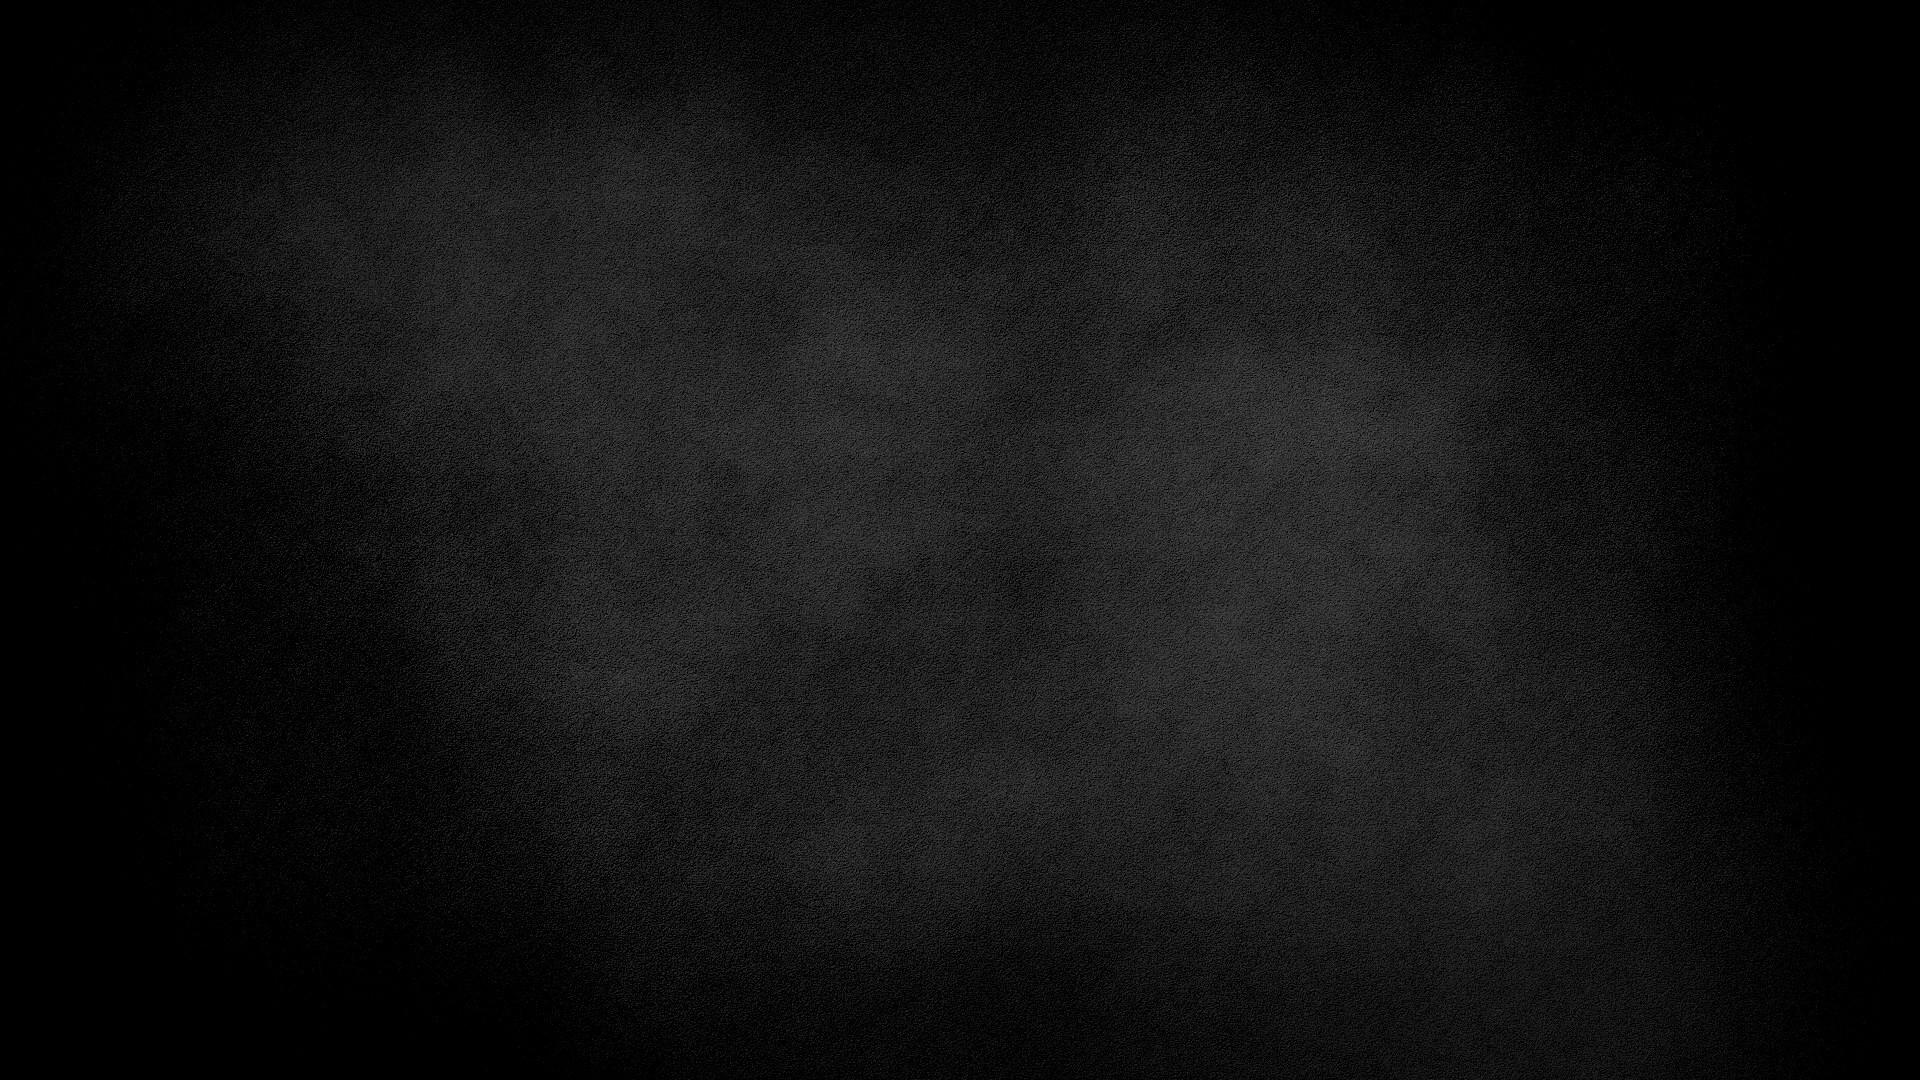
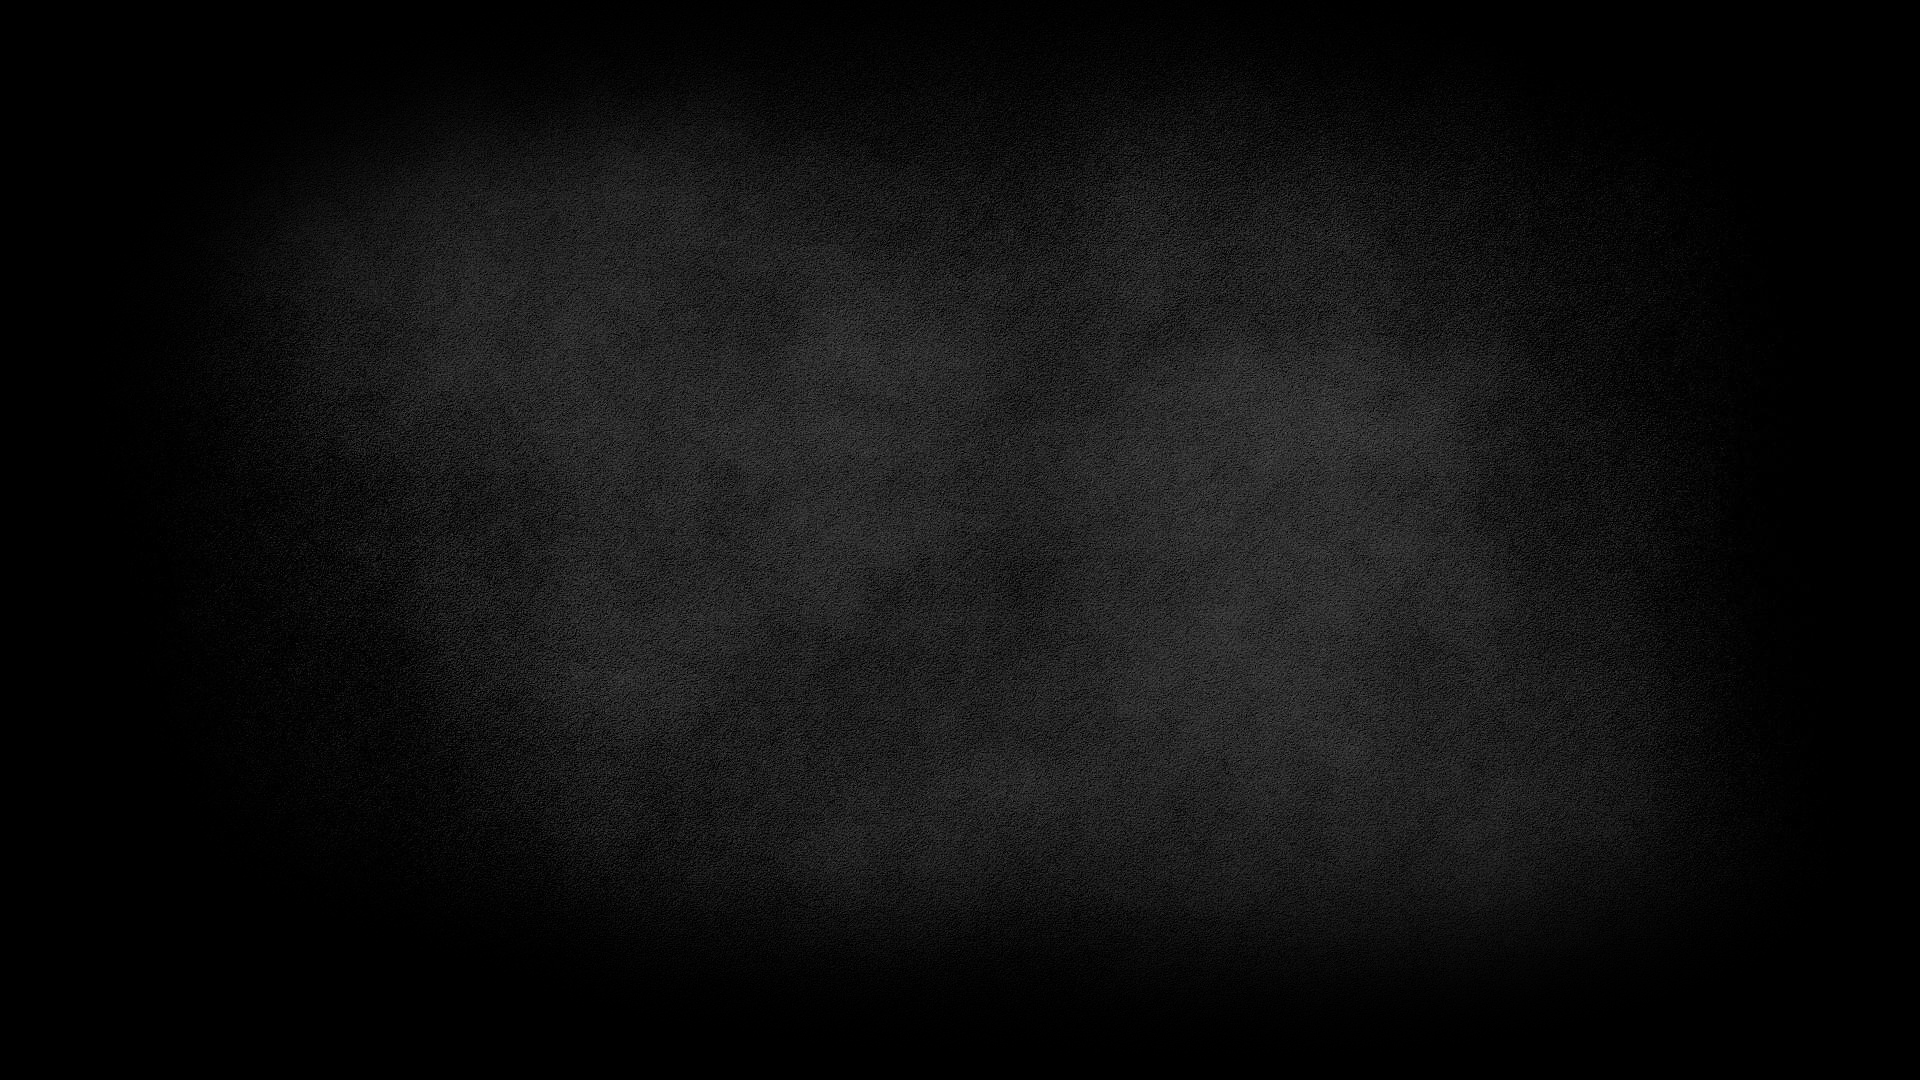
Bar search logic & Init db data & facebook token fix

Changed region(s): [[0.6875, 0.8861, 0.875, 1.0], [0.6562, 0.9167, 0.6875, 0.9472]]

diff --git a/BALIBAR/wwwroot/css/bars.css b/BALIBAR/wwwroot/css/bars.css
@@ -21,7 +21,6 @@
     align-items: center;
     justify-content: center;
     cursor: pointer;
-    font-family: 'Microsoft JhengHei UI light';
 }
 
 .room-card {
@@ -37,21 +36,32 @@
     justify-content: center;
     box-shadow: 0 5px 10px rgba(0,0,0,0.16), 0 5px 10px rgba(0,0,0,0.23);
     cursor: pointer;
-    font-family: 'Microsoft JhengHei UI light';
+}
+
+.search-card {
+    margin-left: 15px;
+    margin-bottom: 1rem;
+    margin-top: 1rem;
+    background: black;
+    display: flex;
+    width: 100%;
+    text-align: center;
+    align-items: center;
+    justify-content: center;
+    box-shadow: 0 5px 10px rgba(0,0,0,0.16), 0 5px 10px rgba(0,0,0,0.23);
+    background: rgba(0, 0, 0, 0.6);
 }
 
 .weather-card {
     text-align: center;
     align-items: center;
     justify-content: center;
-    font-family: 'Microsoft JhengHei UI light';
 }
     .room-card.new {
         background: #1EDC3F;
         display: flex;
         align-items: center;
         justify-content: center;
-        color: black;
         width: 100%;
         height: 100px;
         color: white;

diff --git a/BALIBAR/wwwroot/js/barList.js b/BALIBAR/wwwroot/js/barList.js
@@ -1,0 +1,43 @@
+$(function () {
+
+    // Init bar list
+    $(document).ready(function () {
+        $.ajax({
+            type: 'GET',
+            url: "/Bars/Search",
+            success: function (data) {
+                $("#barList").html(data);
+            }
+        })
+    });
+
+    // Bar list
+    $("#searchButton").click(function () {
+        $.ajax({
+            type: 'GET',
+            url: "/Bars/Search",
+            data: $("#searchForm").serialize(),
+            success: function (data) {
+                $("#barList").html(data);
+            }
+        })
+    })
+
+    // Bar types
+    var select = document.getElementById("Type_Name")
+    var url = "/Bars/GetTypesList"
+    $.ajax({
+        type: 'GET',
+        url: url,
+        contentType: 'json',
+        success: function (genres) {
+
+            for (var i = 0; i < genres.length; i++) {
+                var option = document.createElement("option");
+                option.text = genres[i];
+                select.add(option);
+            }
+        }
+    })
+
+});

diff --git a/BALIBAR/wwwroot/css/main.css b/BALIBAR/wwwroot/css/main.css
@@ -1,9 +1,9 @@
 body {
     background-color: #f1f4f7;
     background-image: url("/content/wallpaper.jpg");
-    background-repeat: no-repeat;
-    background-size: cover;
-    font-family: "Roboto";
+    /*    background-repeat: no-repeat;*/
+    background-size: auto;
+    font-family: 'Microsoft JhengHei UI light';
     font-size: 16px;
 }
 

diff --git a/BALIBAR/Program.cs b/BALIBAR/Program.cs
@@ -10,6 +10,7 @@ using Microsoft.Extensions.Configuration;
 using Microsoft.Extensions.DependencyInjection;
 using Microsoft.Extensions.Hosting;
 using Microsoft.Extensions.Logging;
+using Type = BALIBAR.Models.Type;
 
 namespace BALIBAR
 {
@@ -45,6 +46,58 @@ namespace BALIBAR
 
         private static void AddData(BALIBARContext context)
         {
+            // If bar type list is empty
+            if (!context.Type.Any())
+            {
+                var Types = new List<Type>
+                {
+                    new Type
+                    {
+                        Name = "Irish pub",
+                        Description = "Pub with irish design",
+                        MusicType = "All kinds"
+                    },
+
+                    new Type
+                    {
+                        Name = "Pizza bar",
+                        Description = "Pizza and beer",
+                        MusicType = "Pop"
+                    },
+
+                    new Type
+                    {
+                        Name = "Beach bar",
+                        Description = "Bar on the beach with the sound of the waves",
+                        MusicType = "Chill"
+                    },
+
+                    new Type
+                    {
+                        Name = "Beer factory",
+                        Description = "The beer you get is made in our place",
+                        MusicType = "All kinds"
+                    },
+
+                    new Type
+                    {
+                        Name = "Dance bar",
+                        Description = "Come to dance with us",
+                        MusicType = "All"
+                    },
+
+                    new Type
+                    {
+                        Name = "Open stage bar",
+                        Description = "Get on the stage and perdorm or sit back and enjoy the show",
+                        MusicType = "Live music"
+                    }
+                };
+                context.AddRange(Types);
+                context.SaveChanges();
+            }
+
+            // If bar list is empty
             if (!context.Bar.Any())
             {
                 var Bars = new List<Bar> {
@@ -79,7 +132,7 @@ namespace BALIBAR
                     ClosingTime = DateTime.Today.Add(TimeSpan.Parse("01:00:00")),
                     MinAge = 16,
                     ImgUrl = "/content/Goons.jpg",
-                    Type = context.Type.FirstOrDefault(t => t.Name == "Irish pub")
+                    Type = context.Type.FirstOrDefault(t => t.Name == "Pizza bar")
                 },
 
                 new Bar
@@ -95,7 +148,7 @@ namespace BALIBAR
                     ClosingTime = DateTime.Today.Add(TimeSpan.Parse("01:00:00")),
                     MinAge = 18,
                     ImgUrl = "/content/Mikesplace.jpg",
-                    Type = context.Type.FirstOrDefault(t => t.Name == "Irish pub")
+                    Type = context.Type.FirstOrDefault(t => t.Name == "Open stage bar")
                 },
 
                 new Bar
@@ -111,7 +164,7 @@ namespace BALIBAR
                     ClosingTime = DateTime.Today.Add(TimeSpan.Parse("01:00:00")),
                     MinAge = 18,
                     ImgUrl = "/content/Jems.jpg",
-                    Type = context.Type.FirstOrDefault(t => t.Name == "Irish pub")
+                    Type = context.Type.FirstOrDefault(t => t.Name == "Beer factory")
                 },
 
                 new Bar
@@ -127,7 +180,7 @@ namespace BALIBAR
                     ClosingTime = DateTime.Today.Add(TimeSpan.Parse("03:00:00")),
                     MinAge = 18,
                     ImgUrl = "/content/LimaLima.jpg",
-                    Type = context.Type.FirstOrDefault(t => t.Name == "Irish pub")
+                    Type = context.Type.FirstOrDefault(t => t.Name == "Dance bar")
                 }
 
 

diff --git a/BALIBAR/Controllers/BarsController.cs b/BALIBAR/Controllers/BarsController.cs
@@ -31,21 +31,10 @@ namespace BALIBAR.Controllers
 
         // GET: Bars
         [Authorize]
-        public async Task<IActionResult> Index(string barName, string typeName, int minAge)
+        //public async Task<IActionResult> Index(string barName, string typeName, int minAge)
+        public async Task<IActionResult> Index()
         {
-            var bars = from bar in _context.Bar
-                        select bar;
-
-            if (!String.IsNullOrEmpty(barName))
-                bars = bars.Where(b => b.Name.Contains(barName));
-
-            if (minAge > 0)
-                bars = bars.Where(b => (b.MinAge >= minAge ));
-
-            if (!String.IsNullOrEmpty(typeName))
-                bars = bars.Where(b => b.Type.Name.Equals(typeName));
-
-            return View(await bars.Include(b => b.Type).ToListAsync());
+            return View();
         }
 
         // GET: Bars/Details/5
@@ -195,6 +184,25 @@ namespace BALIBAR.Controllers
                 return new UnableToDeleteViewResult("UnableToDeleteError", "Unable to delete specified room. There are reservations associated with that room!");
             }
             
+        }
+
+        [Authorize]
+        public IActionResult Search(string barName, string typeName, int minAge)
+        {
+            var bars = from bar in _context.Bar
+                       select bar;
+            bars = bars.OrderBy(b => b.Name);
+
+            if (!String.IsNullOrEmpty(barName))
+                bars = bars.Where(b => b.Name.ToUpper().Contains(barName.ToUpper()));
+
+            if (minAge > 0)
+                bars = bars.Where(b => (b.MinAge >= minAge));
+
+            if (!String.IsNullOrEmpty(typeName))
+                bars = bars.Where(b => b.Type.Name.Equals(typeName));
+
+            return PartialView("List", bars.Include(b => b.Type).ToList());
         }
 
         private bool BarExists(int id)

diff --git a/BALIBAR/Handlers/FaceBookHandler.cs b/BALIBAR/Handlers/FaceBookHandler.cs
@@ -19,7 +19,7 @@ namespace BALIBAR.Handlers
         private const string FacebookApiSecret = "e1654646df828222ff12a80f07ddb20c";
 
         private const string PageID = "103846034722719";                                      
[2 lines of base64/hex data omitted]
 
         private const string AuthenticationUrlFormat =
             "https://graph.facebook.com/oauth/access_token?grant_type=fb_exchange_token&client_id={0}&client_secret={1}&fb_exchange_token={2}";
@@ -69,5 +69,7 @@ namespace BALIBAR.Handlers
             {
             }
         }
+
+        public static void Post(Bar bar) { }
     }
 }
